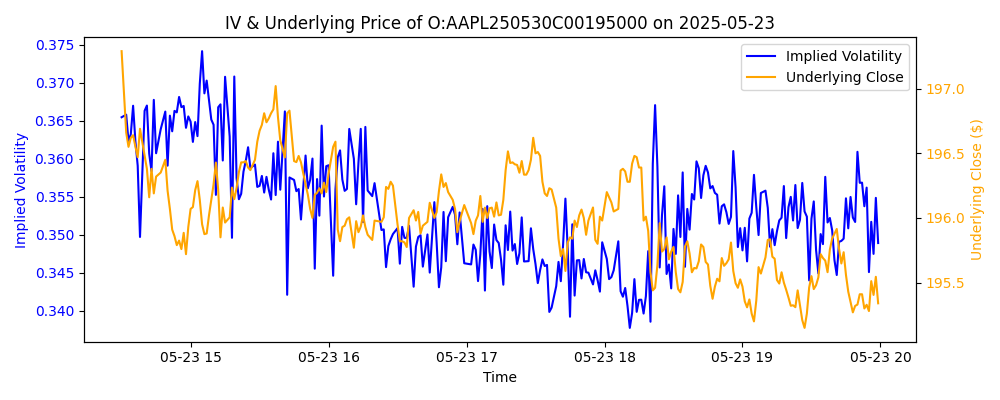
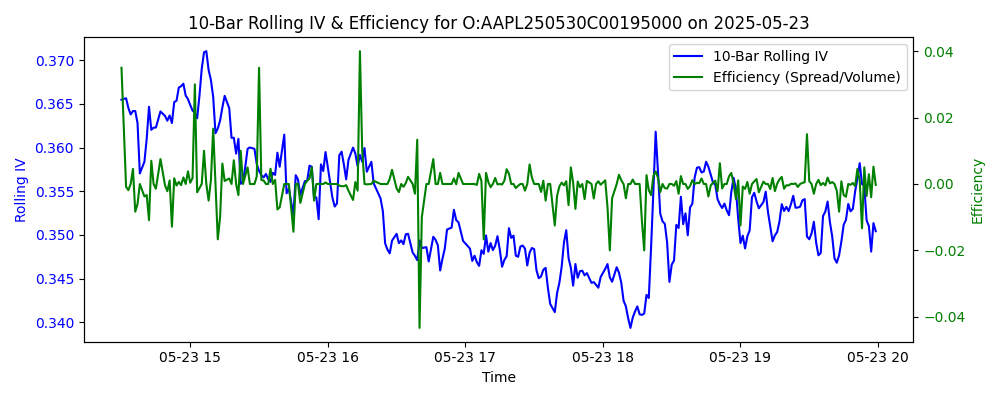
graph playground expdata.py

diff --git a/expdata.py b/expdata.py
@@ -1,0 +1,145 @@
+import datetime
+import math
+import re
+
+import pandas as pd
+import matplotlib.pyplot as plt
+from scipy.stats import norm
+from polygon import RESTClient
+
+# ---- BLACK–SCHOLES IMPL. VOL. (bisection) ----
+def implied_vol(S, K, T, r, price, tol=1e-6, max_iter=60):
+    low, high = 1e-6, 5.0
+    for _ in range(max_iter):
+        mid = 0.5 * (low + high)
+        d1  = (math.log(S / K) + (r + 0.5 * mid * mid) * T) / (mid * math.sqrt(T))
+        d2  = d1 - mid * math.sqrt(T)
+        bs  = S * norm.cdf(d1) - K * math.exp(-r * T) * norm.cdf(d2)
+        if bs > price:
+            high = mid
+        else:
+            low  = mid
+    return 0.5 * (low + high)
+
+# ---- USER INPUT ----
+API_KEY       = 'w2chIPf4EUplQqQv6b8Nxnn8GQV8pfGC'
+option_symbol = 'O:AAPL250530C00195000'  # e.g. 'O:<SYMBOL><YYMMDD><C/P><strike*1000>'
+
+# ---- PARSE UNDERLYING (chars until first digit) ----
+first_digit_idx = re.search(r'\d', option_symbol).start()
+underlying_sym  = option_symbol[2:first_digit_idx]
+
+# ---- PARSE EXPIRATION DATE (YYMMDD) ----
+exp_str         = option_symbol[first_digit_idx:first_digit_idx+6]
+yy, mm, dd      = int(exp_str[:2]), int(exp_str[2:4]), int(exp_str[4:6])
+expiration_date = datetime.datetime(2000 + yy, mm, dd)
+
+# ---- PARSE OPTION TYPE (C or P) ----
+opt_type_char = option_symbol[first_digit_idx+6]
+option_type   = 'call' if opt_type_char == 'C' else 'put'
+
+# ---- PARSE STRIKE (last 8 digits → float dollars) ----
+strike_str = option_symbol[first_digit_idx+7:]
+K          = int(strike_str) / 1000.0
+
+# ---- REMAINING INPUTS ----
+date_str     = '2025-05-23'   # trading day to process (YYYY-MM-DD)
+r            = 0.01           # annual risk-free rate
+
+# ---- HELPER: convert "YYYY-MM-DD" → market open/close in ms ----
+def get_day_bounds_unix_ms(date_str):
+    date         = datetime.datetime.strptime(date_str, "%Y-%m-%d")
+    market_open  = date.replace(hour=9,  minute=30, second=0, microsecond=0)
+    market_close = date.replace(hour=16, minute=0,  second=0, microsecond=0)
+    return int(market_open.timestamp() * 1000), int(market_close.timestamp() * 1000)
+
+start_ms, end_ms   = get_day_bounds_unix_ms(date_str)
+expiration_ms      = int(expiration_date.timestamp() * 1000)
+
+# ---- INSTANTIATE POLYGON CLIENT ----
+client = RESTClient(api_key=API_KEY)
+
+# ---- FETCH 1-MIN AGGREGATES VIA RESTClient ----
+opt_resp = client.get_aggs(
+    ticker=option_symbol,
+    multiplier=1,
+    timespan="minute",
+    from_=start_ms,
+    to=end_ms,
+    adjusted=True,
+    sort="asc",
+    limit=50000,
+)
+
+stk_resp = client.get_aggs(
+    ticker=underlying_sym,
+    multiplier=1,
+    timespan="minute",
+    from_=start_ms,
+    to=end_ms,
+    adjusted=True,
+    sort="asc",
+    limit=50000,
+)
+
+opt_df = pd.DataFrame(opt_resp)
+stk_df = pd.DataFrame(stk_resp)
+
+# ---- TURN MS → DATETIME INDEX ----
+opt_df['dt'] = pd.to_datetime(opt_df['timestamp'], unit='ms')
+stk_df['dt'] = pd.to_datetime(stk_df['timestamp'], unit='ms')
+
+# ---- MERGE ON EXACT MINUTE STAMPS ----
+# keep only rows where the option bar and underlying bar align
+merged = pd.merge(
+    opt_df,
+    stk_df[['dt', 'close']].rename(columns={'close': 'stk_close'}),
+    on='dt',
+    how='inner'
+)
+print(f"Found {len(merged)} matching minute‐bars out of "
+      f"{len(opt_df)} option / {len(stk_df)} underlying rows")
+
+# ---- COMPUTE IV FOR EACH BAR ----
+ivs = []
+for row in merged.itertuples(index=False):
+    S     = float(row.stk_close)    # underlying close
+    price = float(row.close)        # option close
+    t_ms  = int(row.dt.value // 10**6)
+    T     = max((expiration_ms - t_ms) / 1000.0 / (365 * 24 * 3600), 1e-6)
+    iv    = implied_vol(S, K, T, r, price)
+    ivs.append(iv)
+
+merged['iv'] = ivs
+
+# ---- COMPUTE 10-BAR ROLLING AVERAGE OF IMPLIED VOL ----
+merged['iv_rolling10'] = merged['iv'].rolling(window=3, min_periods=1).mean()
+
+# ---- COMPUTE EFFICIENCY = (high - low) / volume ----
+# Note: avoid division by zero
+spread = merged['close'] - merged['open']
+merged['efficiency'] = spread / merged['volume'].replace(0, pd.NA)
+
+# ---- PLOT 10-BAR ROLLING IV AND EFFICIENCY ----
+fig, ax_iv = plt.subplots(figsize=(10, 4))
+
+# Plot 10-bar rolling implied vol on the left axis
+ax_iv.plot(merged['dt'], merged['iv_rolling10'], label='10-Bar Rolling IV', color='blue')
+ax_iv.set_xlabel('Time')
+ax_iv.set_ylabel('Rolling IV', color='blue')
+ax_iv.tick_params(axis='y', labelcolor='blue')
+
+# Create a second y-axis for efficiency
+ax_eff = ax_iv.twinx()
+ax_eff.plot(merged['dt'], merged['efficiency'], label='Efficiency (Spread/Volume)', color='green')
+ax_eff.set_ylabel('Efficiency', color='green')
+ax_eff.tick_params(axis='y', labelcolor='green')
+
+# Combine legends
+lines_iv, labels_iv     = ax_iv.get_legend_handles_labels()
+lines_eff, labels_eff   = ax_eff.get_legend_handles_labels()
+ax_iv.legend(lines_iv + lines_eff, labels_iv + labels_eff, loc='best')
+
+plt.title(f'10-Bar Rolling IV & Efficiency for {option_symbol} on {date_str}')
+plt.tight_layout()
+plt.savefig("data/data0fig.png")
